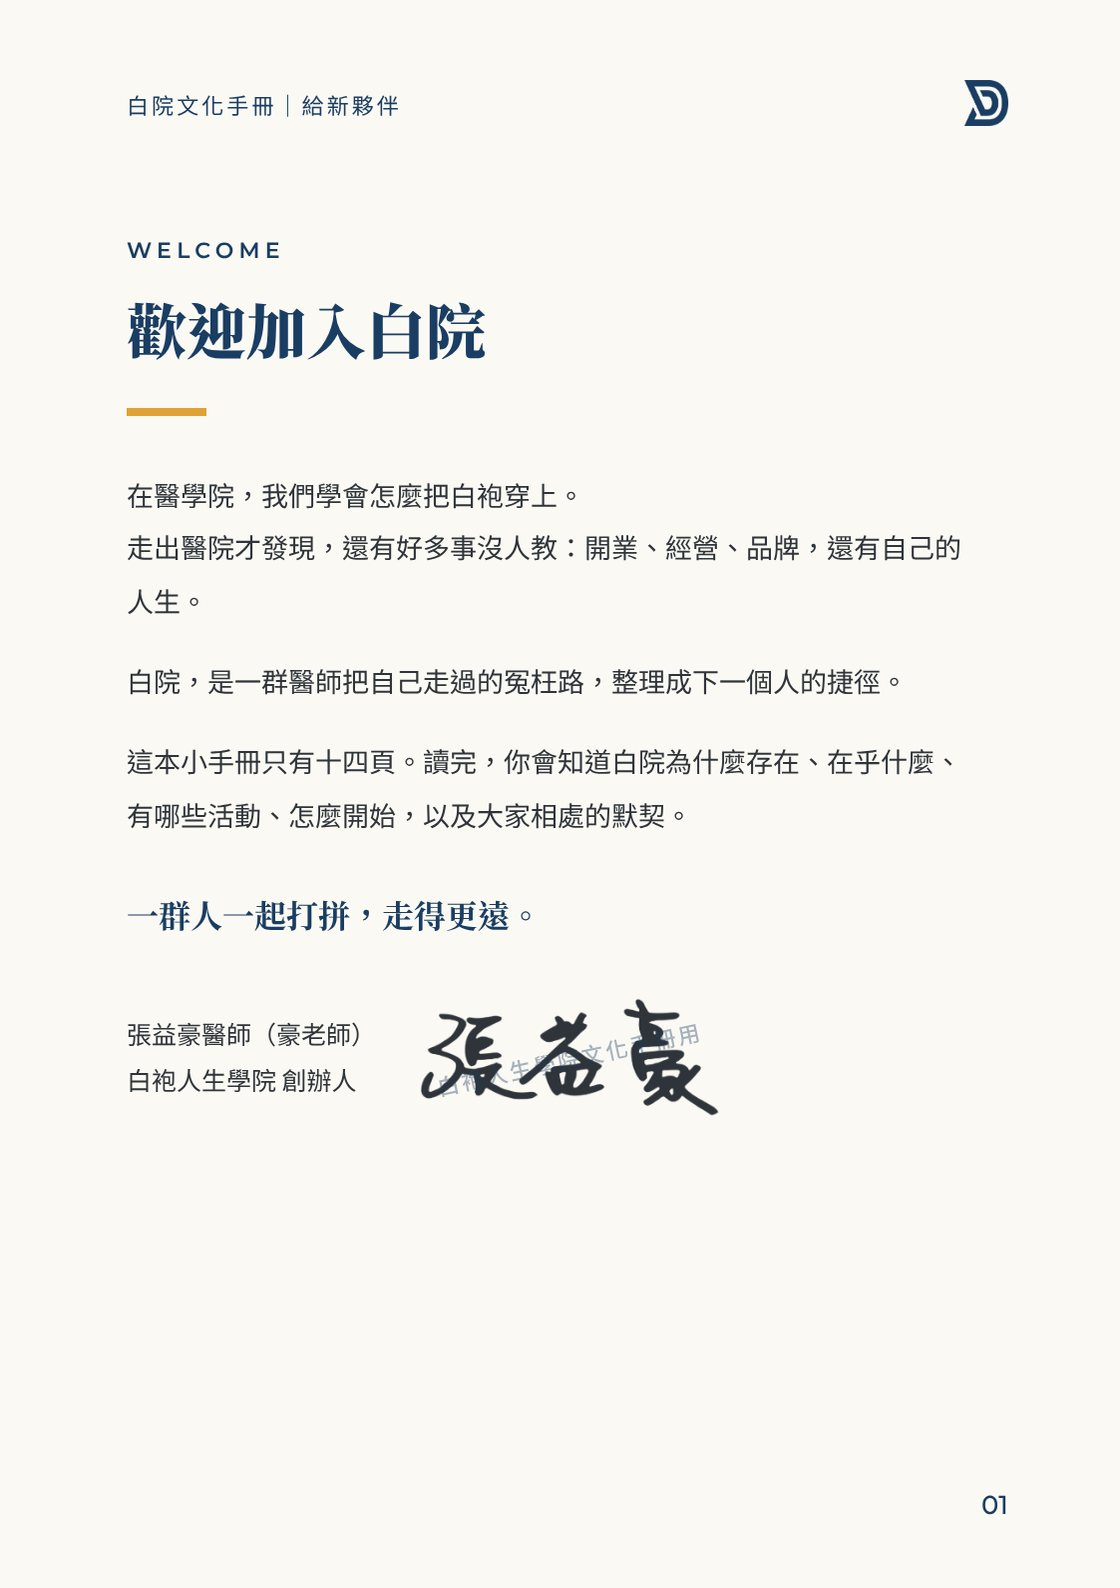
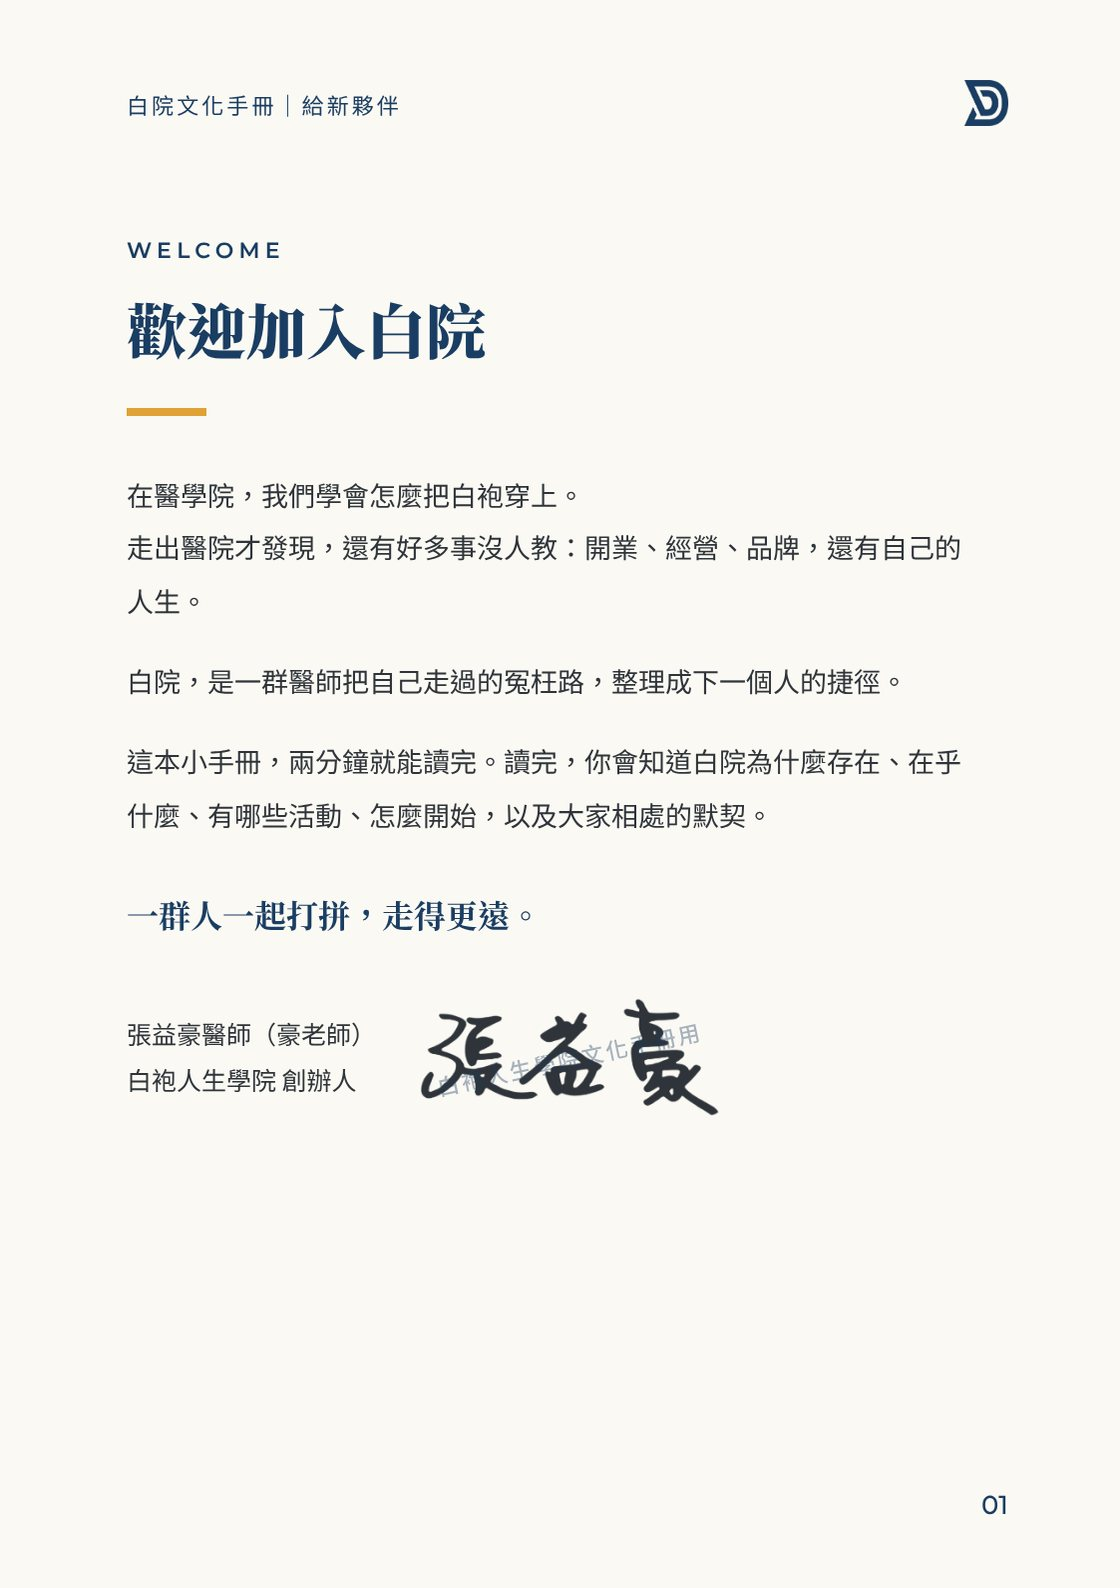
文化手冊第三版：新增創辦人介紹與可點擊聯絡連結、封底，封面改為兩分鐘讀完
Claude-Session: https://claude.ai/code/session_01JAiqQizGJYhfo5pfmJiNDj

Changed region(s): [[0.0938, 0.4628, 0.8438, 0.5246]]

diff --git a/handbook-v3/index.html b/handbook-v3/index.html
@@ -25,6 +25,9 @@ header span{font-family:var(--latin);font-size:12px;color:var(--muted);letter-sp
 .wrap{width:min(100%,calc((100dvh - 190px) * 1.4106));margin:0 auto}
 #book{box-shadow:0 18px 50px rgba(0,0,0,.45)}
 .pg{background:#FBF9F3;overflow:hidden}
+.pg{position:relative}
+.hot{position:absolute;display:block;border-radius:4px;z-index:2}
+.hot:hover,.hot:focus-visible{background:rgba(224,162,53,.16);outline:2px solid #E0A235;outline-offset:0}
 .pg img{display:block;width:100%;height:100%;object-fit:fill;-webkit-user-drag:none;user-select:none}
 @media (max-width:520px){.wrap{width:min(100%,calc((100dvh - 150px) * .7053))}}
 .load{color:var(--muted);font-size:13px}
@@ -53,7 +56,7 @@ nav button:disabled{opacity:.4;cursor:default}
 <nav aria-label="翻頁">
   <button id="first" type="button" aria-label="第一頁">⇤</button>
   <button id="prev" type="button" aria-label="上一頁">‹ 上一頁</button>
-  <div class="count" aria-live="polite"><b id="cur">1</b> / <span id="tot">14</span></div>
+  <div class="count" aria-live="polite"><b id="cur">1</b> / <span id="tot">16</span></div>
   <button id="next" type="button" aria-label="下一頁">下一頁 ›</button>
   <button id="last" type="button" aria-label="最後一頁">⇥</button>
   <button id="snd" type="button" aria-pressed="true">聲音：開</button>
@@ -67,17 +70,29 @@ nav button:disabled{opacity:.4;cursor:default}
   <button type="button" data-p="9">活動與怎麼開始</button>
   <button type="button" data-p="11">相處的默契</button>
   <button type="button" data-p="13">白院常用語</button>
+  <button type="button" data-p="15">創辦人與聯絡方式</button>
 </div>
 
 <script src="https://cdn.jsdelivr.net/npm/page-flip@2.0.7/dist/js/page-flip.browser.js"></script>
 <script>
 (function(){
-  var N=14, imgs=[];
+  var N=16, imgs=[];
   for(var i=1;i<=N;i++) imgs.push('pages/p'+(i<10?'0':'')+i+'.jpg');
+  // clickable areas on page images (page number -> boxes in % of the page)
+  var LINKS={15:[
+    {href:'https://drhao33.com/',label:'創辦人介紹 drhao33.com',x:11.41,y:53.83,w:76.65,h:4.79},
+    {href:'https://course.ent33ent.com/',label:'白院官網 course.ent33ent.com',x:11.41,y:58.62,w:76.65,h:4.79},
+    {href:'https://lin.ee/0TZvAZH',label:'官方 LINE',x:11.41,y:63.4,w:76.65,h:4.79},
+    {href:'mailto:drchang.ent33@gmail.com',label:'聯絡信箱 drchang.ent33@gmail.com',x:11.41,y:68.19,w:76.65,h:4.91}
+  ]};
   var el=document.getElementById('book'); el.innerHTML='';
   imgs.forEach(function(src,k){ var d=document.createElement('div'); d.className='pg';
     var im=document.createElement('img'); im.src=src; im.alt='第 '+(k+1)+' 頁'; im.decoding='async'; if(k>3) im.loading='lazy';
-    d.appendChild(im); el.appendChild(d); });
+    d.appendChild(im);
+    (LINKS[k+1]||[]).forEach(function(L){ var a=document.createElement('a'); a.className='hot'; a.href=L.href; a.setAttribute('aria-label',L.label);
+      if(L.href.indexOf('http')===0){ a.target='_blank'; a.rel='noopener'; }
+      a.style.left=L.x+'%'; a.style.top=L.y+'%'; a.style.width=L.w+'%'; a.style.height=L.h+'%'; d.appendChild(a); });
+    el.appendChild(d); });
   var flip=new St.PageFlip(el,{
     width:560,height:794,size:'stretch',minWidth:200,maxWidth:1120,minHeight:340,maxHeight:1588,
     showCover:false,usePortrait:true,maxShadowOpacity:.4,mobileScrollSupport:true,autoSize:true,flippingTime:700
